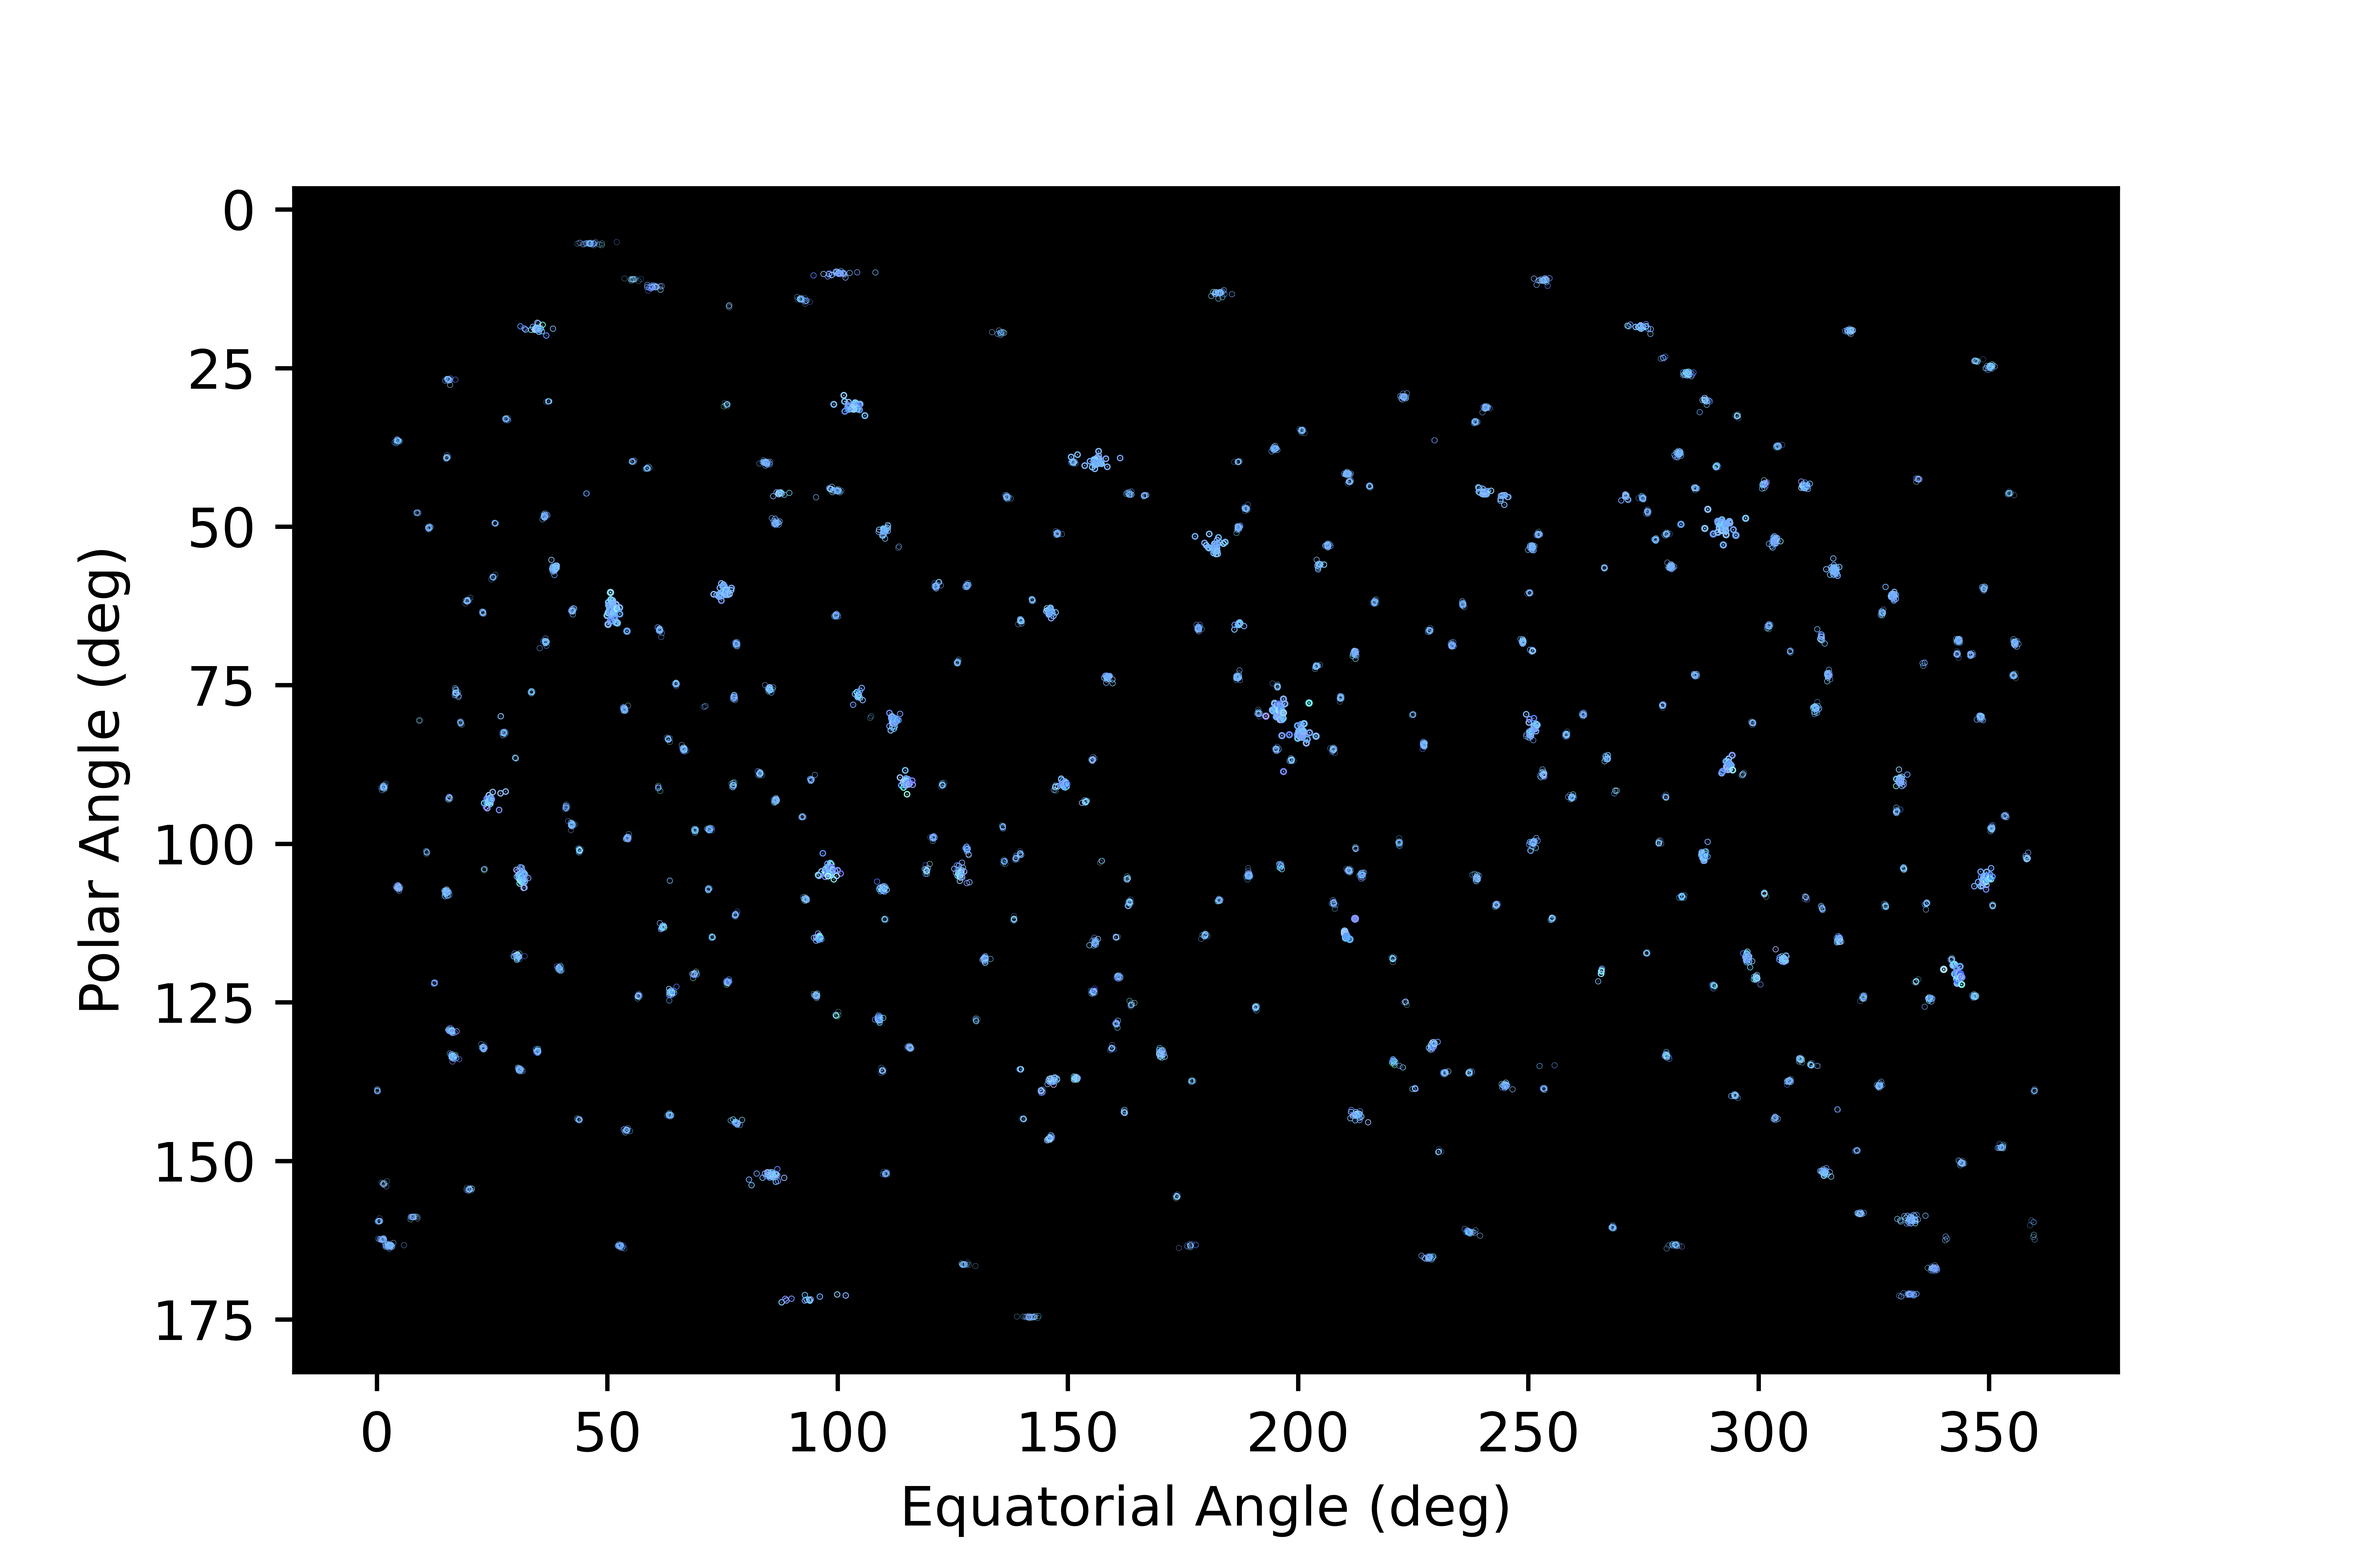
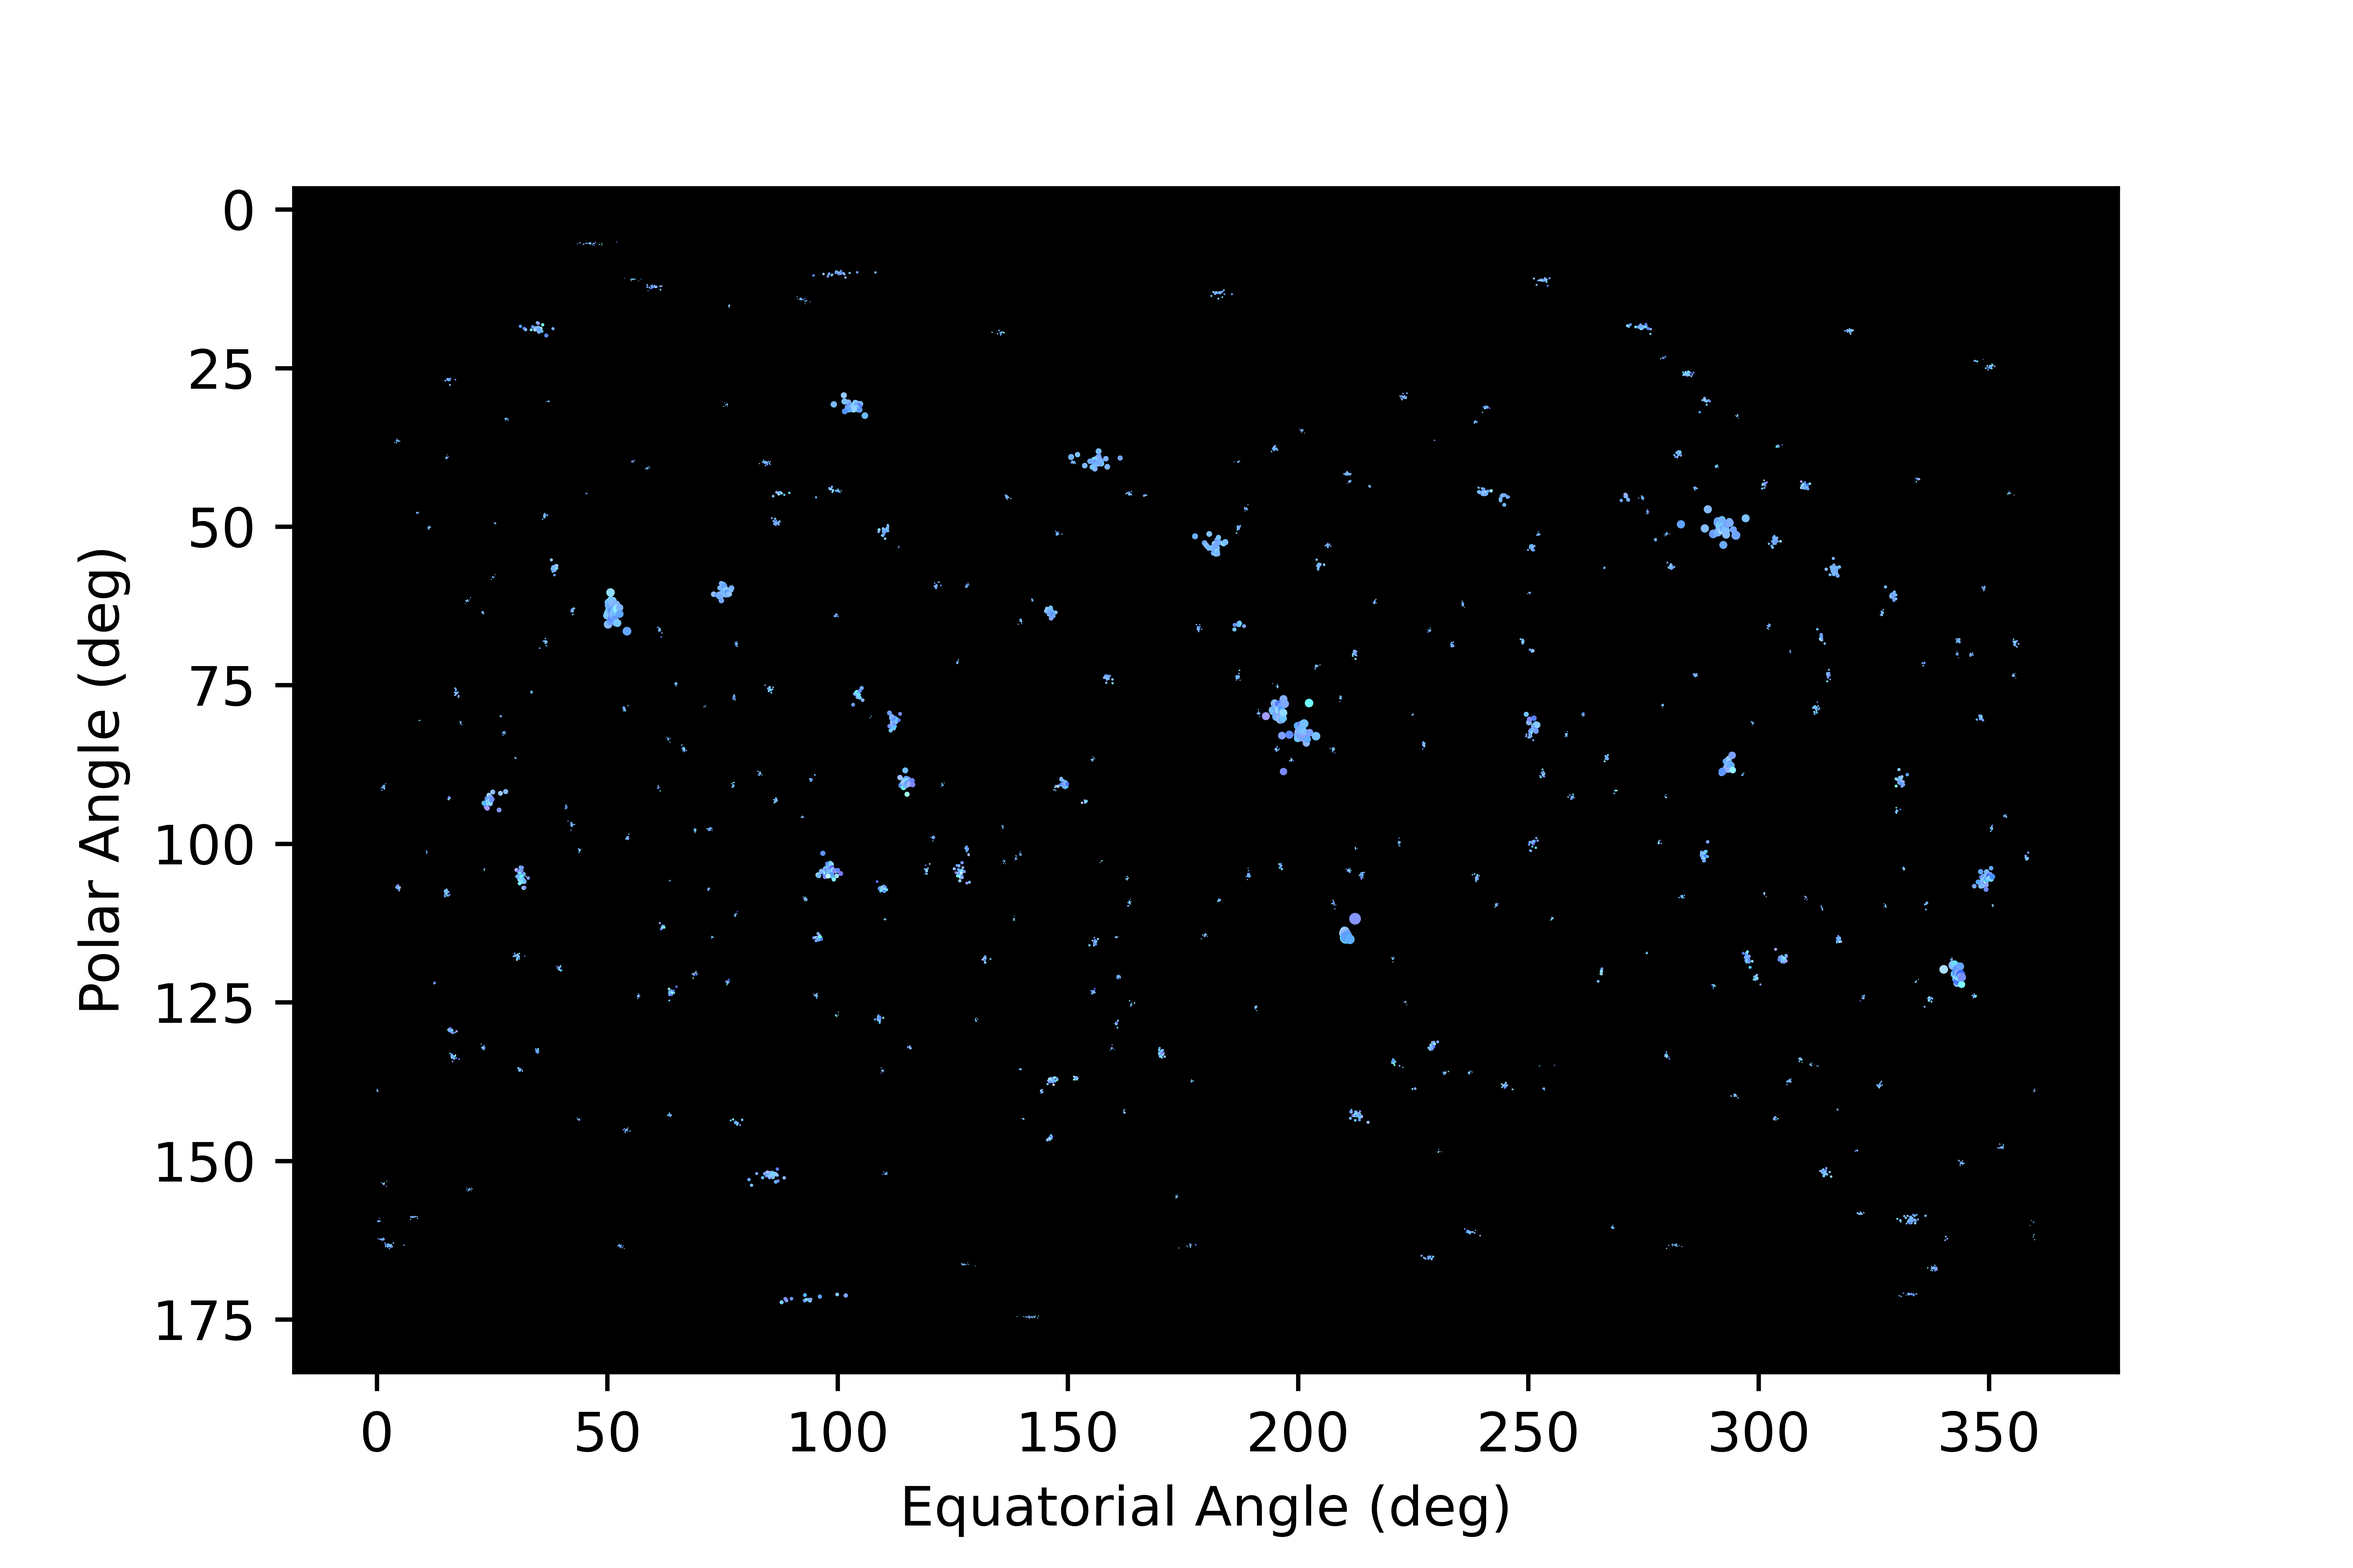
Galaxy Redshift Map, misc tweaks
Altered some parameters of both the starmap and galaxy map within starmap.py. Fixed up the fuzzymap-redshift code so that it actually runs too

Changed region(s): [[0.5312, 0.4375, 0.5625, 0.4688], [0.4062, 0.5312, 0.4375, 0.5625], [0.3438, 0.5312, 0.375, 0.5625]]

diff --git a/Data/Camera Images/starmap.py b/Data/Camera Images/starmap.py
@@ -66,7 +66,7 @@ else:
 brightest = max(allstaraveflux)         #finds the brightest star for normalization purposes
 
 for star in stararray:
-    brightness = sqrt(11) * log10((star[2] / brightest) + 1)            #defines scatter marker 'brightness' based on logarithmic algorithm. Spits out value between 0 and 1
+    brightness = 20*sqrt(11) * log10((star[2] / brightest) + 1)            #defines scatter marker 'brightness' based on logarithmic algorithm. Spits out value between 0 and 1
     starbright.append(brightness)
 
 starcolours = array(starcolours)/256        #gets the rgb values between 0 and 1 (because the scatter function chucked a tantrum)
@@ -78,7 +78,7 @@ ax.set_ylabel('Polar Angle (deg)')
 ax.set_facecolor('k')
 ax.invert_yaxis()        #flips the y-axis so that polar angle is 0 at due north
 
-plt.scatter(starequats, starpolar, s=starbright, c=starcolours, marker='.')
+starmap = plt.scatter(starequats, starpolar, s=starbright, c=starcolours, marker='.', linewidths=0)
 
 figure(figsize=(36,18))             #units are inches
 fig.set_dpi(1200)           #sets resolution of image in pixels per square inch?
@@ -128,7 +128,7 @@ for row in fuzzydata:       #functionally identical to the star loop
 brightest = max(allfuzaveflux)         #finds the brightest star for normalization purposes
 
 for fuzzy in fuzarray:
-    brightness = sqrt(11) * log10((fuzzy[2] / brightest) + 1)            #defines scatter marker 'brightness' based on logarithmic algorithm. Spits out value between 0 and 1
+    brightness = 20*sqrt(11) * log10((fuzzy[2] / brightest) + 1)            #defines scatter marker 'brightness' based on logarithmic algorithm. Spits out value between 0 and 1
     fuzbright.append(brightness)
 
 fuzcolours = array(fuzcolours)/256        #gets the rgb values between 0 and 1
@@ -140,7 +140,7 @@ ax.set_ylabel('Polar Angle (deg)')
 ax.set_facecolor('k')
 ax.invert_yaxis()
 
-plt.scatter(fuzequats, fuzpolar, s=fuzbright, c=fuzcolours, marker='.')
+plt.scatter(fuzequats, fuzpolar, s=fuzbright, c=fuzcolours, marker='.', linewidths=0)
 
 figure(figsize=(36,18))             #units are inches
 fig.set_dpi(1200)           #sets resolution of image in pixels per square inch?
@@ -148,21 +148,21 @@ fig.savefig(dir_path+'\\fuzzymap.png')
 
 plt.clf()
 
-# cm = plt.cm.get_cmap('Blues')
+cm = plt.cm.get_cmap('Blues_r')
 
-# fig, ax = plt.subplots()
-# plt.xlabel('Equatorial Angle (deg)')
-# plt.ylabel('Polar Angle (deg)')
-# ax.set_facecolor('k')
-# plt.gca().invert_yaxis() 
+fig, ax = plt.subplots()
+plt.xlabel('Equatorial Angle (deg)')
+plt.ylabel('Polar Angle (deg)')
+ax.set_facecolor('k')
+plt.gca().invert_yaxis() 
 
-# red = plt.plot(fuzequats, fuzpolar, s=0.1, c=fuzredshift, vmin=-2000, vmax=2000, cmap=cm , marker='.')  #note the colourmap for the redshift amount
-# cbar = plt.colorbar(red)
-# cbar.set_label('Radial Velocity (km/s)', rotation=90)
-# plt.show()
+red = plt.scatter(fuzequats, fuzpolar, s=1, c=fuzredshift, vmin=-1400, vmax=0, cmap=cm , marker='.', linewidths=0)  #note the colourmap for the redshift amount
+cbar = plt.colorbar(red)
+cbar.set_label('Radial Velocity (km/s)', rotation=90)
+plt.show()
 
-# figure(figsize=(36,18))             #units are inches
-# fig.set_dpi(1200)           #sets resolution of image in pixels per square inch?
-# fig.savefig(dir_path+'fuzzy-redshift.png')
+figure(figsize=(60,18))             #units are inches
+fig.set_dpi(1200)           #sets resolution of image in pixels per square inch?
+fig.savefig(dir_path+'\\fuzzy-redshift.png')
 
 totalfuzzy.close()
